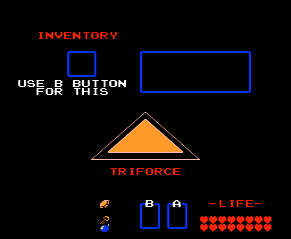
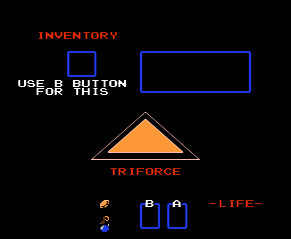
quick push to avoid merges

diff --git a/Zelda/js/inventario.js b/Zelda/js/inventario.js
@@ -1,11 +1,11 @@
 var zelda = zelda || {}
 
 
-zelda.inventario()= {
+zelda.MenuInventario= {
 	init:function(){
-		this.game.world.setBounds(0,-47,zelda.gameOptions.gameWidth,zelda.gameOptions.gameHeight);
+		this.game.world.setBounds(0,0,1024,240);
 		this.scale.scaleMode = Phaser.ScaleManager.SHOW_ALL;
-		this.scale.setGameSize(zelda.gameOptions.gameWidth,zelda.gameOptions.gameHeight);
+		
 	},
 	
     preload:function(){
@@ -13,16 +13,19 @@ zelda.inventario()= {
         this.game.stage.backgroundColor = "#black";
         //----------Inventory ------------
         
-        this.load.image("background", "img/InventarioOver.png");
+        this.load.image("background", "img/inventario.png",256,223);
         //-------------------------------------------
-       
-		
+        this.load.image("pocion","img/pocion_vida.png");
+        this.load.image("corazon","img/slot_corazon.png");
+        this.load.image("vela","img/vela.png");
+		this.load.image("bomba","img/bomba.png");
 		//para el prefab de link
 		
     },
     
     create:function(){
-        this.map = this.game.add.image("background");
+       this.inv = this.game.add.sprite(0,0, "background");
+		
         
         
         //fuego y animacion de este
@@ -31,11 +34,13 @@ zelda.inventario()= {
         //npc
         
 		
-		this.game.camera.y -= 47;
+		this.game.camera.y = 0;
+		
+        
+       
 		
 		
-		this.inventario = this.game.add.sprite(0,-zelda.gameOptions.gameHeight+47, "inventario");
-        this.inventario.fixedToCamera = true;
+        
     },
     
     update:function(){

diff --git a/Zelda/js/main.js b/Zelda/js/main.js
@@ -284,7 +284,8 @@ zelda.game.state.add("secret_room_K", zelda.sala_secreta_K);
 zelda.game.state.add("secret_room_G", zelda.sala_secreta_G);
 zelda.game.state.add("overworld", zelda.overworld);
 zelda.game.state.add("dungeon", zelda.dungeon);
+zelda.game.state.add("inventario", zelda.MenuInventario);
 
 //Escena que se pinta
 //zelda.game.state.start("main");
-zelda.game.state.start("secret_room_A");
+zelda.game.state.start("inventario");
